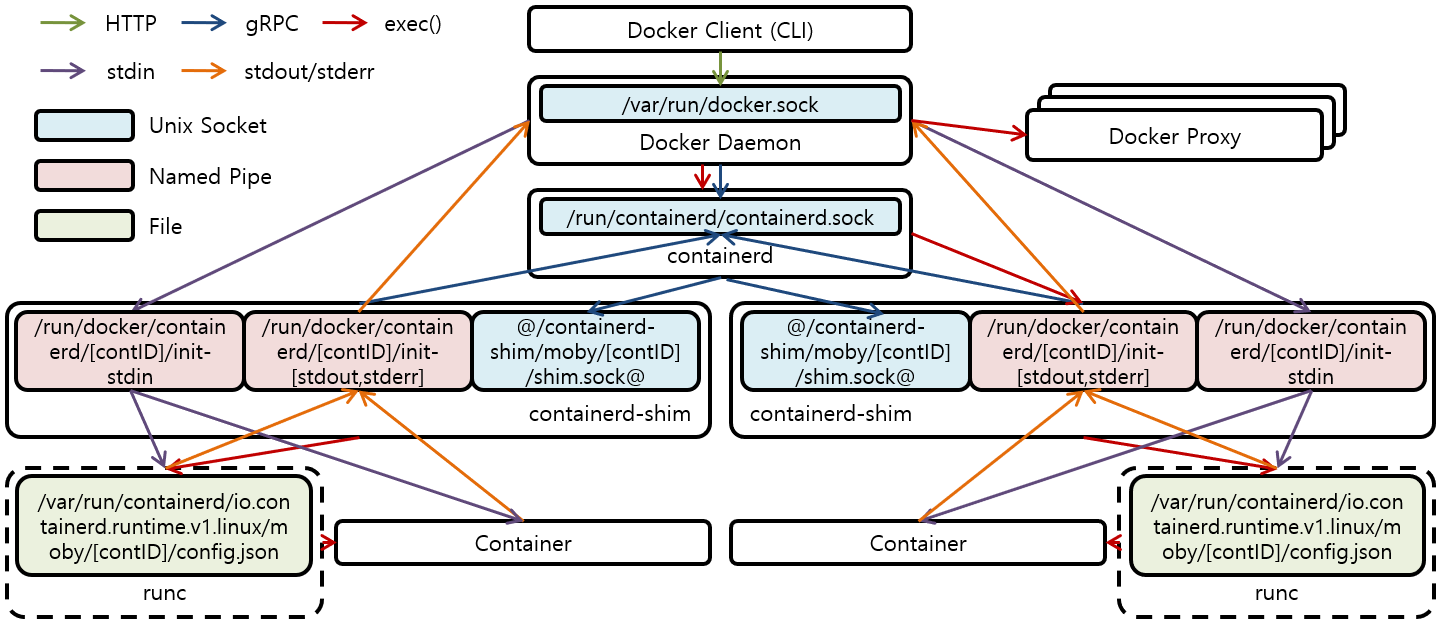
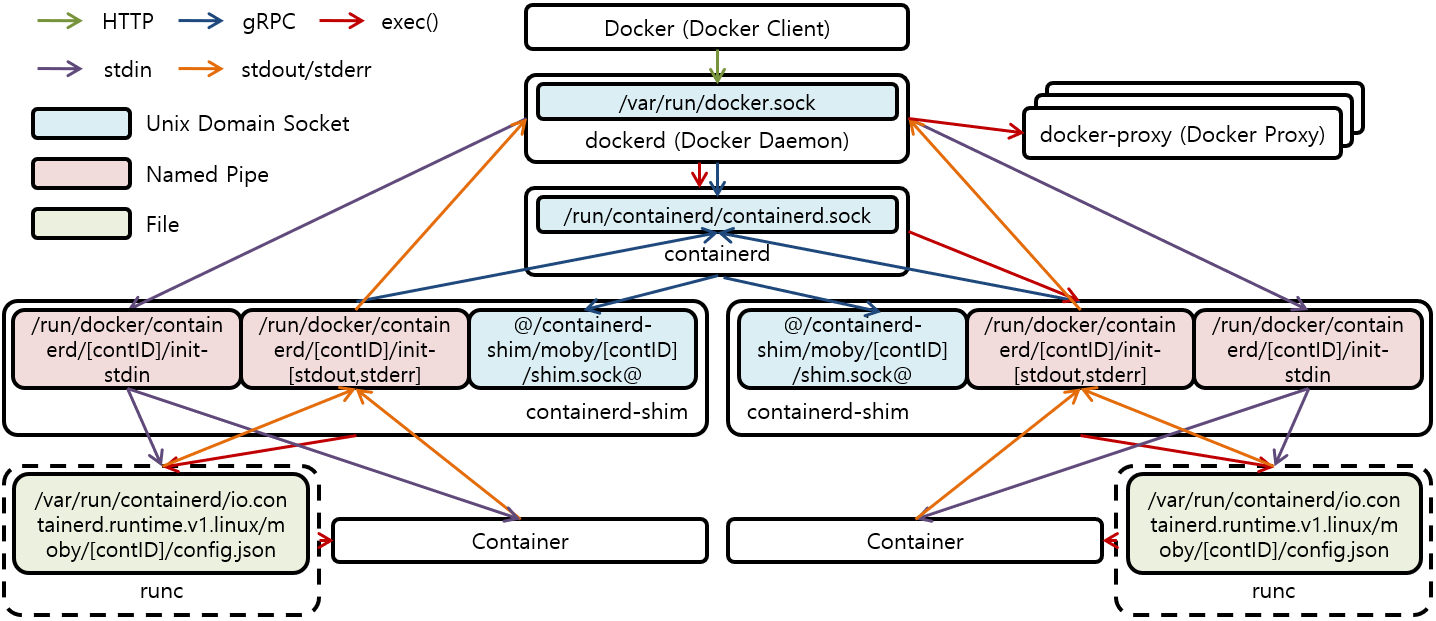
Update

diff --git a/_docs/theory_analysis/Docker_Component.md b/_docs/theory_analysis/Docker_Component.md
@@ -7,11 +7,33 @@ comment: true
 adsense: true
 ---
 
-Docker Component를 분석한다.
+Docker의 구성요소를 분석한다.
 
 ### 1. Docker Component
 
 ![[그림 1] Docker Component]({{site.baseurl}}/images/theory_analysis/Docker_Component/Docker_Component.PNG)
+
+[그림 1]은 Docker 19.02 Version의 구성요소를 나타내고 있다. 구성 요소로는 docker, dockerd, docker-proxy, containerd, containerd-shim, runc로 구성되어 있다. 각 구성요소의 역활은 다음과 같다.
+
+#### 1.1. docker (Docker Client)
+
+docker는 Docker Daemon이 제공하는 HTTP 기반 REST API를 이용하여 Container를 제어하는 Docker Client 역활을 수행한다.
+
+#### 1.2. dockerd (Docker Daemon)
+
+Docker Daemon은 HTTP 기반 REST API를 제공하여 Docker Client가 Container를 제어하고 이용할 수 있게하는 Docker Daemon의 역활을 수행한다. Docker Client로부터 받은 요청중에서 대부분은 dockerd가 구동시킨 containerd에게 처리를 위임하고, 일부 요청만 직접 처리한다. dockerd는 containerd 구동, Docker Image Build (Dockerfile), Container Network 설정 (Bridge, iptables), Container Log 기록, docker-proxy 구동 등의 역활을 수행한다. Docker Daemon의 REST API는 기본적으로 "/var/run/docker.sock" 파일의 Unix Domain Socket을 통해서 제공되며 Docker Daemon의 Opiton을 변경을 통해서 TCP Socket을 이용하도록 변경할 수도 있다.
+
+#### 1.3. docker-proxy (Docker Proxy)
+
+docker-proxy는 Node 외부에서 Container안으로 Packet을 Forwarding 해주는 Proxy Server 역활을 수행한다. docker-proxy는 Container 구동시 반드시 필요한 구성 요소는 아니다. Linux에서 동작하는 dockerd는 Linux Netfilter Framework를 기반으로 동작하는 iptables를 이용하여 Container로 Packet을 Forwarding 하기 때문이다. 하지만 dockerd가 동작하는 모든 환경에서 iptables를 이용할수 있는것은 아니기 때문에, docker-proxy는 환경에 따라서 이용 유무가 결정된다. dockerd-proxy의 이용 유무는 docker-proxy를 실행하는 dockerd의 설정에 따라서 결정된다.
+
+dockerd는 docker-proxy는 Container의 Port Forwarding Option이 추가될 때 마다 해당 Port를 담당하는 docker-proxy를 추가로  실행한다. 예를 들어 A Container에 10, 20 Port를 Port Forwarding 설정하고, B Container에 30, 40 Port를 Port Forwarding 하도록 설정한다면 docker-proxy는 4개가 동작한다. 다수의 docker-proxy 구동은 Node에도 부담될수 있기 때문에 dockerd가 Linux의 iptables가 이용가능한 환경이라면 docker-proxy를 이용 안하도록 dockerd를 설정하는것이 좋다.
+
+#### 1.4. containerd
+
+#### 1.5. containerd-shim
+
+#### 1.6. runc
 
 ### 2. 참조
 
